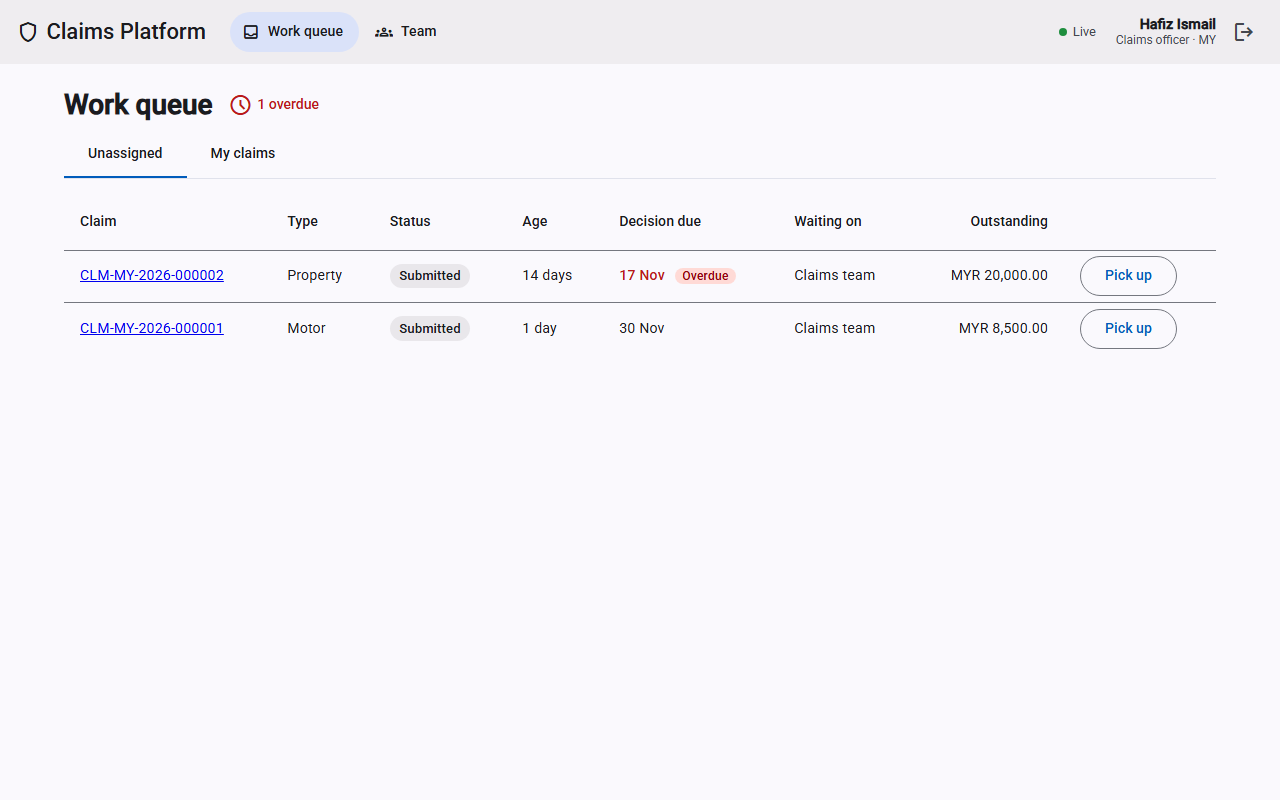
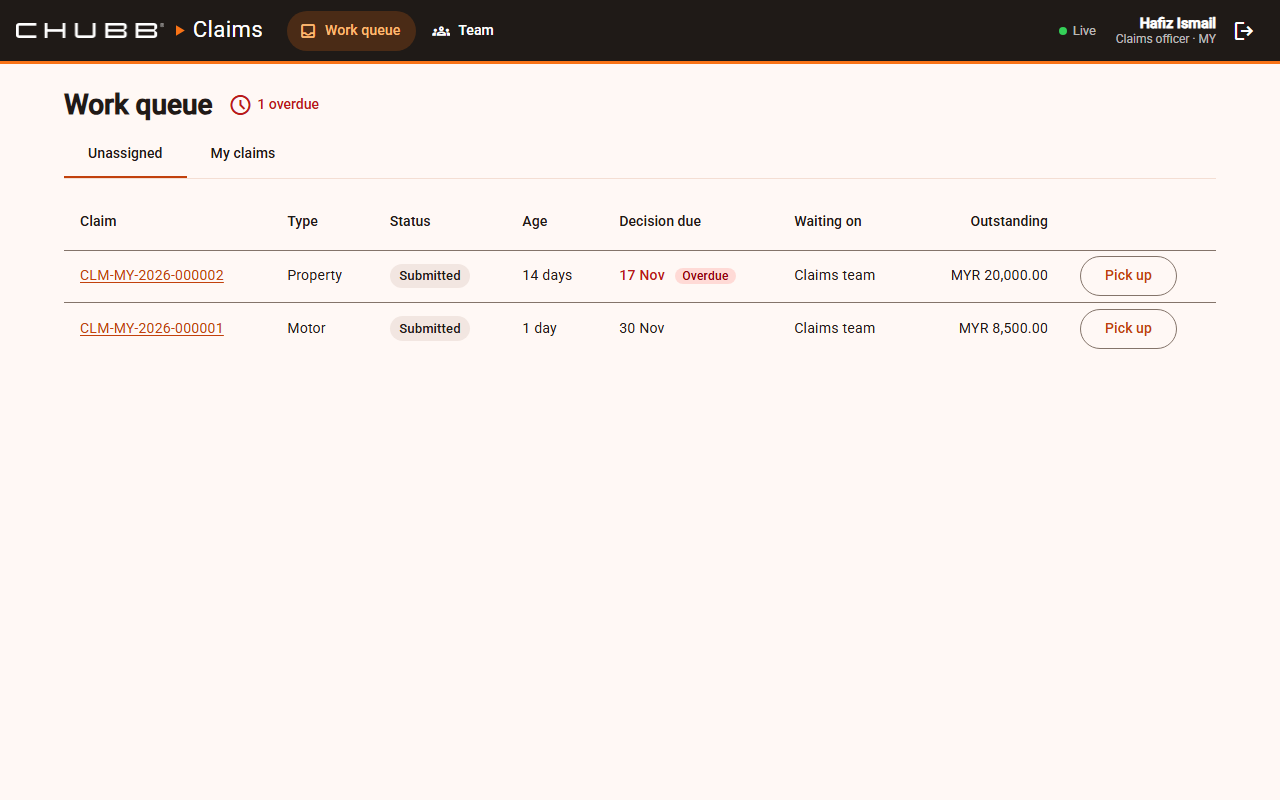
docs: screenshots with the new theme; journal entry

diff --git a/AI_JOURNAL.md b/AI_JOURNAL.md
@@ -201,3 +201,11 @@ Running log of how I directed the AI (Claude Code): what I asked, what I accepte
 - Verified: Vitest 64/64; production build 94.42 kB initial transfer; browser checks again, on fresh seeds: login 15/15, claimant 19/19, officer 20/20, realtime 13/13, officer Team 2/2, phone width 7/7. Screenshots taken on a fresh seed. Backend tests 206/206 (the README said 203; corrected).
 - Not done, and said so in the README: a committed Playwright suite, an nginx container for the web app, the notification bell. I didn't put a frontend duration in the README: commit times show when phases were reviewed and merged, not when work started.
 
+### 2026-11-21 · Web theme · Brand colour and logo
+- Asked (after seeing it run): the UI looked plain; apply an orange brand colour and add the Chubb logo, with a triangle instead of a bar as the accent.
+- Accepted: orange Material 3 theme with overrides. Filled buttons use a deeper burnt orange (#c2410c, white text 5.2:1, WCAG AA); the bright orange (#f97316) is only for accents, since white text on it would be 2.8:1. Dark toolbar with an orange edge; the logo is kept beside the product name, and the sign-in page still says it's a development sign-in, so it reads as a demo app.
+- **Caught a side effect:** the "Under review" badge used the primary container colour, so it would have turned orange and looked like "Awaiting information". It's now an explicit blue.
+- **Two styling bugs found from screenshots, not by guessing:** (1) toolbar nav labels went dark-on-dark because Material resets button colours inside a toolbar from the toolbar's own token, so I set `--mat-toolbar-container-text-color`; (2) the brand name turned orange because the new global link colour outranked the toolbar's rule, so the global rule is now wrapped in `:where()` (zero specificity).
+- Logo: black and white 2x PNGs (about 3.5 KB each) made from the supplied image's transparency, not a CSS invert. Decorative in the toolbar (the link is labelled), alt text "Chubb" on sign-in. The phone-width check caught the staff toolbar 2 px too wide with the logo, so it's smaller below 640 px; 7/7 again.
+- Verified: Vitest 64/64, production build 94.54 kB initial transfer, Prettier clean; README screenshots retaken on a fresh seed.
+

diff --git a/ChubbClaims_FE/README.md b/ChubbClaims_FE/README.md
@@ -54,6 +54,7 @@ Claim pages, lists and the Team page update themselves over SignalR when somethi
 - **A push is a hint, REST is the truth.** A SignalR message only triggers a re-fetch, so the UI never trusts data the push carried.
 - **No global store (NgRx).** Almost all state is server state, held per screen; only the session is global.
 - **Money is always shown per currency, with 2 decimals.** Amounts are never added across currencies.
+- **Brand colours with contrast in mind:** filled buttons use a deeper orange so white text passes WCAG AA; the bright orange is for accents. Status colours stay distinct from the brand colour.
 - Angular 22 defaults throughout: standalone, zoneless, OnPush, built-in control flow, `@Service()`, Vitest.
 
 ## Layout
